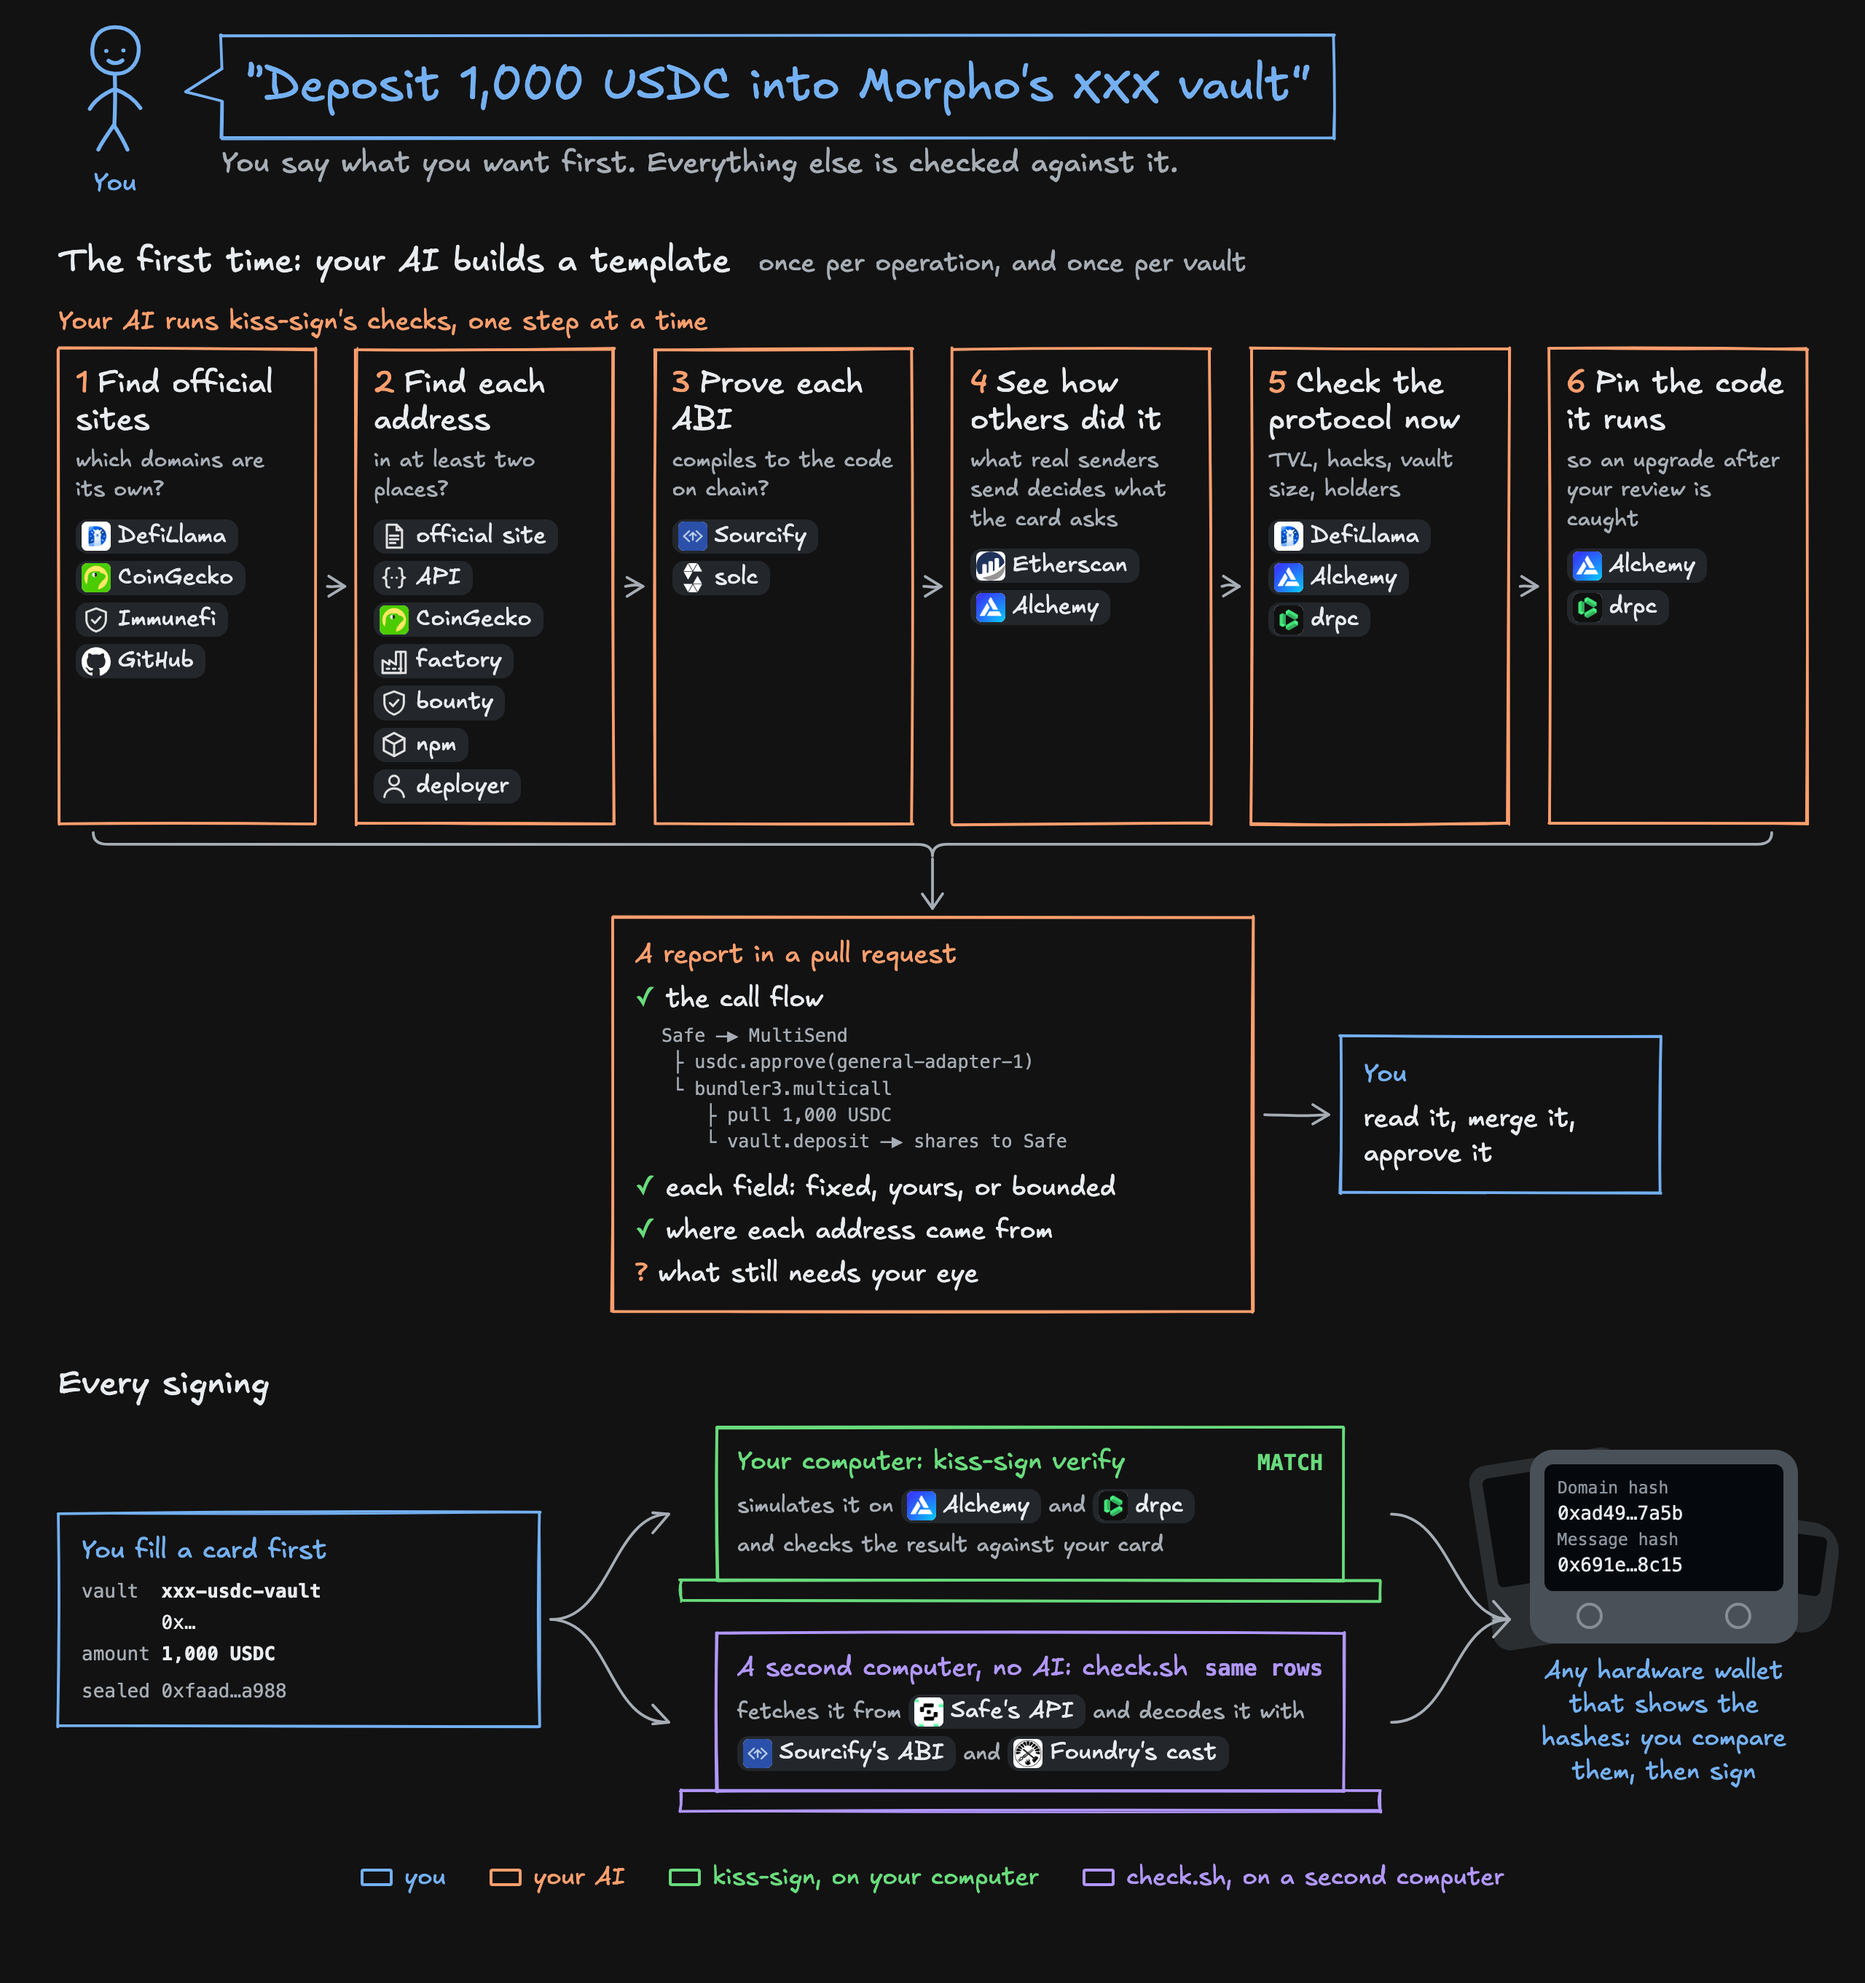
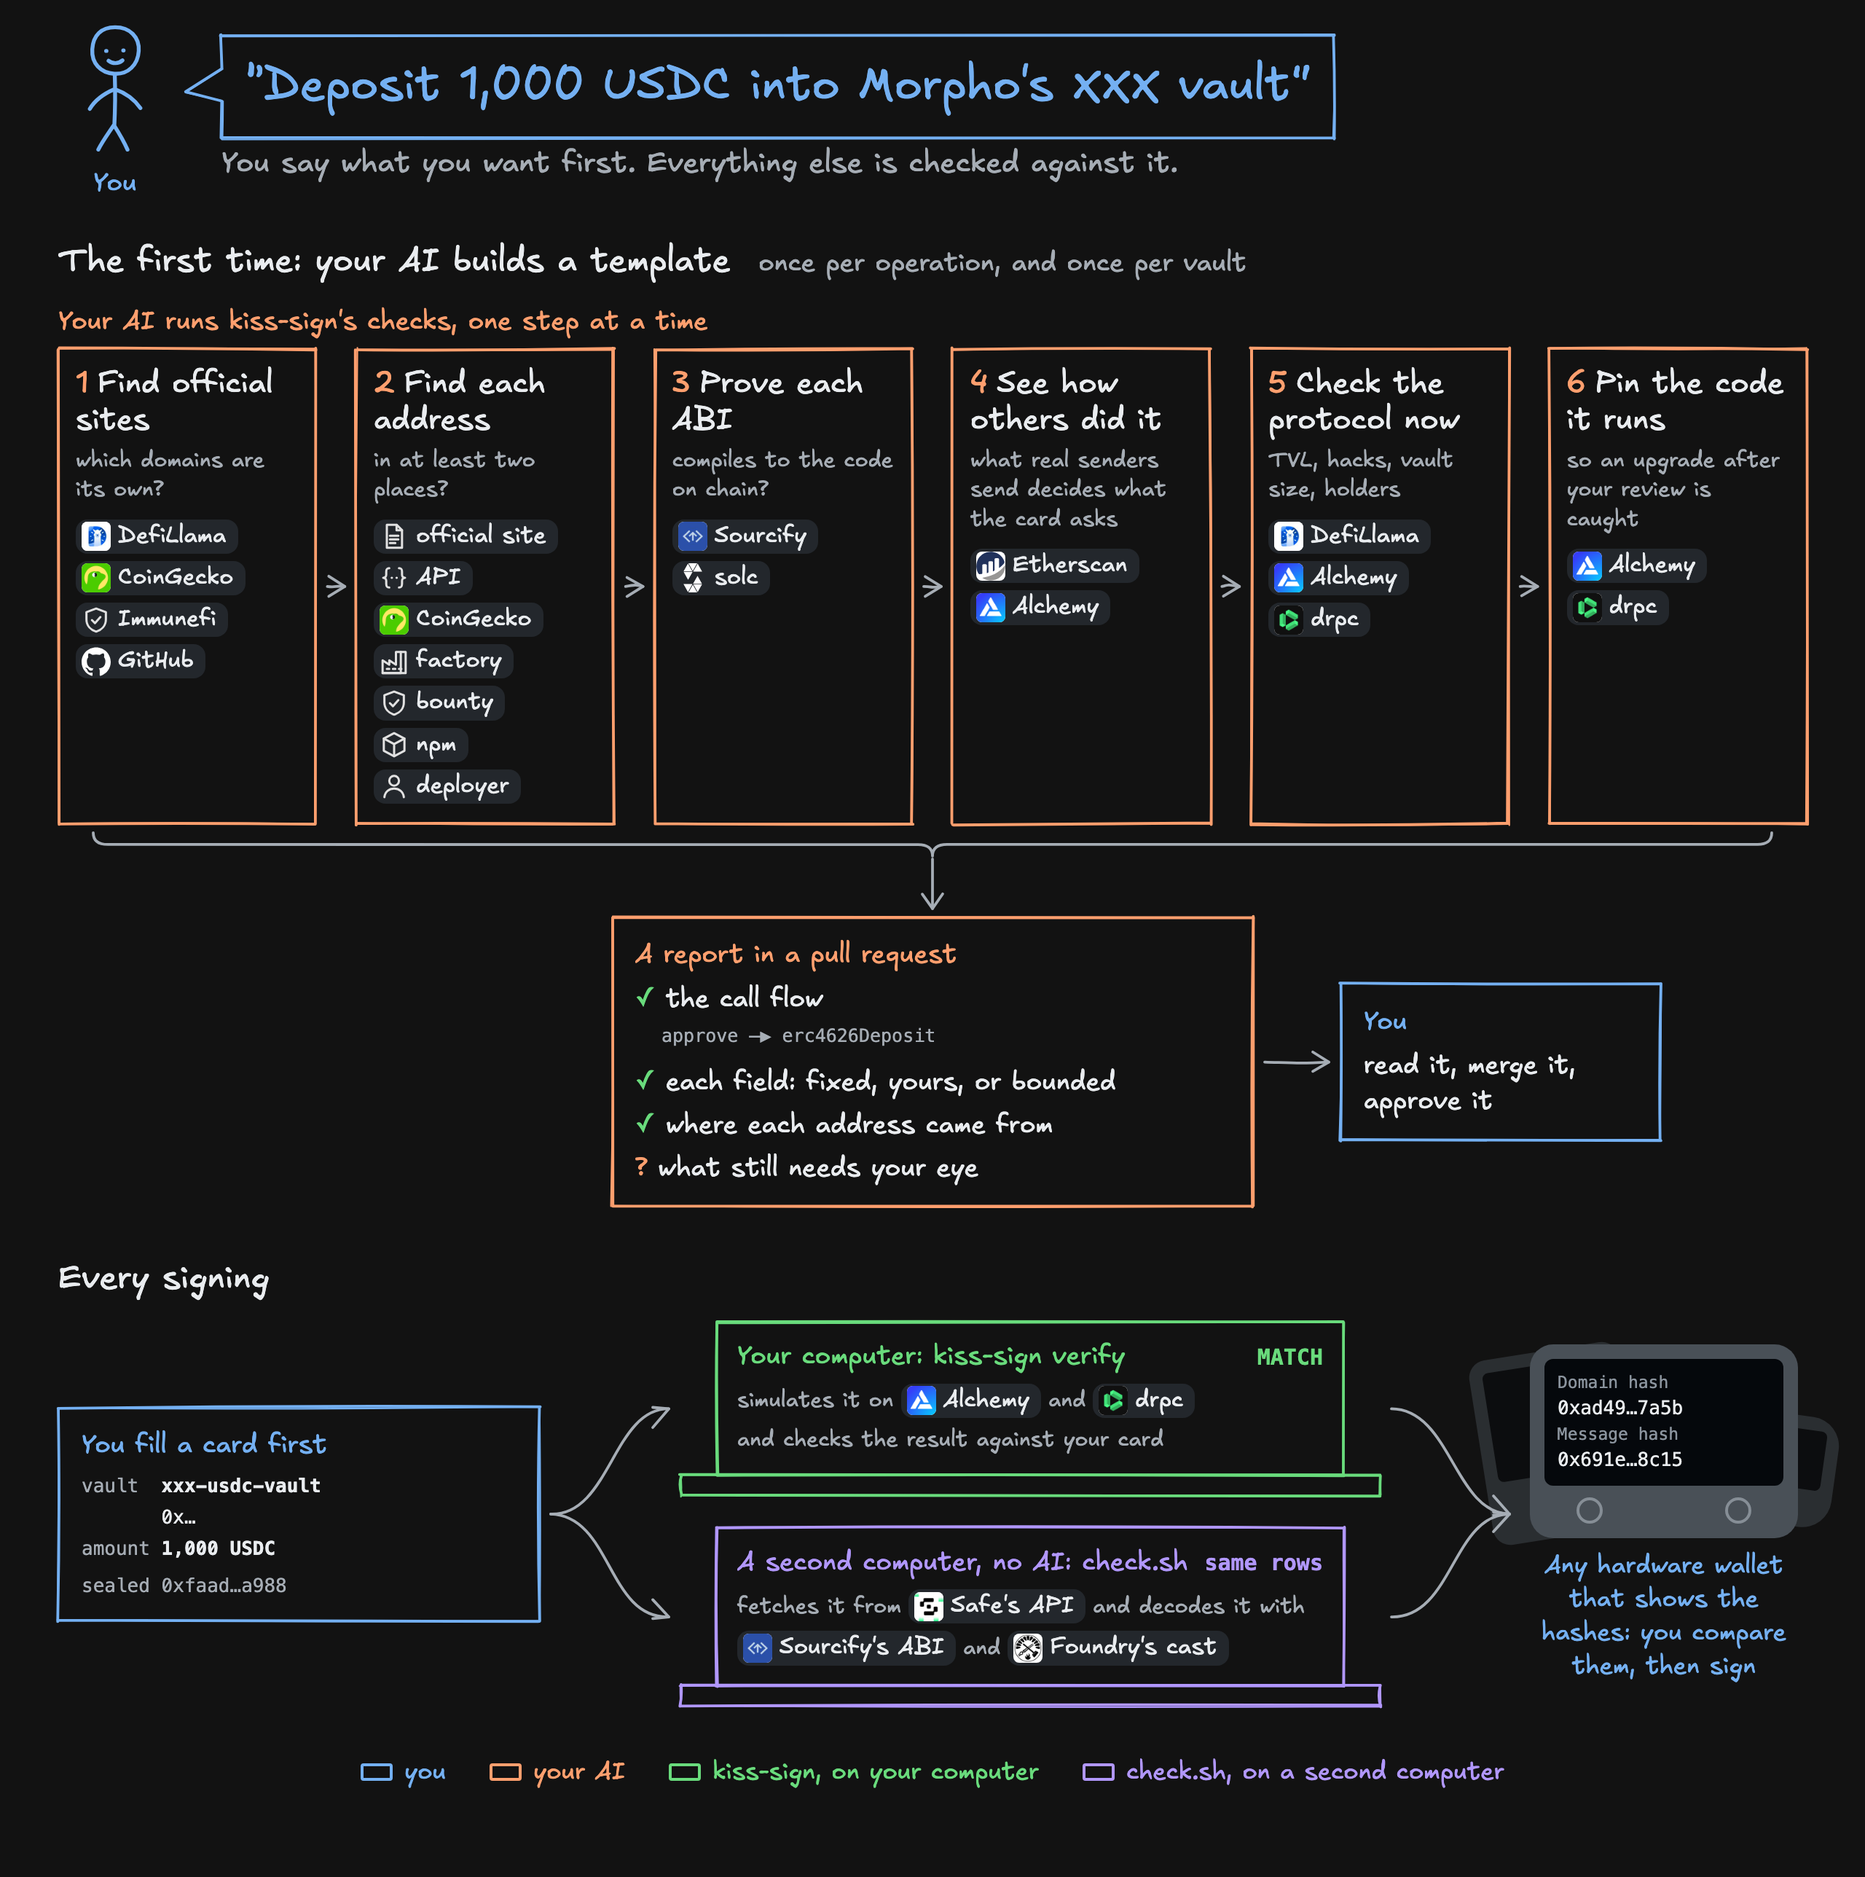
Diagram: shorten the call flow to approve then erc4626Deposit

diff --git a/docs/diagrams/readme-overview.html b/docs/diagrams/readme-overview.html
@@ -127,11 +127,7 @@
   <div class="then">
     <div class="sk ai report" id="report">
       <div class="who">A report in a pull request</div>
-      <ul><li>the call flow<div class="flow mono">Safe ─▶ MultiSend
- ├ usdc.approve(general-adapter-1)
- └ bundler3.multicall
-    ├ pull 1,000 USDC
-    └ vault.deposit ─▶ shares to Safe</div></li><li>each field: fixed, yours, or bounded</li><li>where each address came from</li><li class="q">what still needs your eye</li></ul>
+      <ul><li>the call flow<div class="flow mono">approve ─▶ erc4626Deposit</div></li><li>each field: fixed, yours, or bounded</li><li>where each address came from</li><li class="q">what still needs your eye</li></ul>
     </div>
     <div class="sk you merge" id="merge">
       <div class="who">You</div>

diff --git a/README.md b/README.md
@@ -13,7 +13,7 @@ Signing tools today show you a transaction and ask whether it looks right. Your 
 
 <picture>
   <source media="(prefers-color-scheme: dark)" srcset="docs/readme/overview-dark.png">
-  <img src="docs/readme/overview.png" alt="kiss-sign at a glance. You say what you want. Once per operation, your AI runs kiss-sign's checks: each address's page, API and SDK build must be on one of the protocol's sites, as DefiLlama and the protocol's CoinGecko coin list them, joined by its Immunefi program's and its GitHub-verified organization's when they match those, and each address must show up in at least two places among the official pages, the protocol's API, CoinGecko, the factory, the bug bounty's scope, the npm SDK and the deployer of an entry confirmed elsewhere. It then checks the ABIs, past transactions, the protocol's state and the code it runs, and writes a report, which you review and merge. The report shows the call flow: the Safe calls MultiSend, which approves USDC to general-adapter-1 and calls bundler3.multicall, which pulls the USDC and deposits it into the vault, the shares going to the Safe. At every signing, you fill a card; on your computer kiss-sign verify simulates the transaction on Alchemy and drpc and checks the result against the card; on a second computer check.sh fetches the same transaction from Safe's API and decodes it with Sourcify's ABI and Foundry's cast; and you compare the hashes on any hardware wallet that shows them before signing.">
+  <img src="docs/readme/overview.png" alt="kiss-sign at a glance. You say what you want. Once per operation, your AI runs kiss-sign's checks: each address's page, API and SDK build must be on one of the protocol's sites, as DefiLlama and the protocol's CoinGecko coin list them, joined by its Immunefi program's and its GitHub-verified organization's when they match those, and each address must show up in at least two places among the official pages, the protocol's API, CoinGecko, the factory, the bug bounty's scope, the npm SDK and the deployer of an entry confirmed elsewhere. It then checks the ABIs, past transactions, the protocol's state and the code it runs, and writes a report, which you review and merge. The report shows the call flow, such as an approve followed by an ERC-4626 deposit. At every signing, you fill a card; on your computer kiss-sign verify simulates the transaction on Alchemy and drpc and checks the result against the card; on a second computer check.sh fetches the same transaction from Safe's API and decodes it with Sourcify's ABI and Foundry's cast; and you compare the hashes on any hardware wallet that shows them before signing.">
 </picture>
 
 ## Contents
